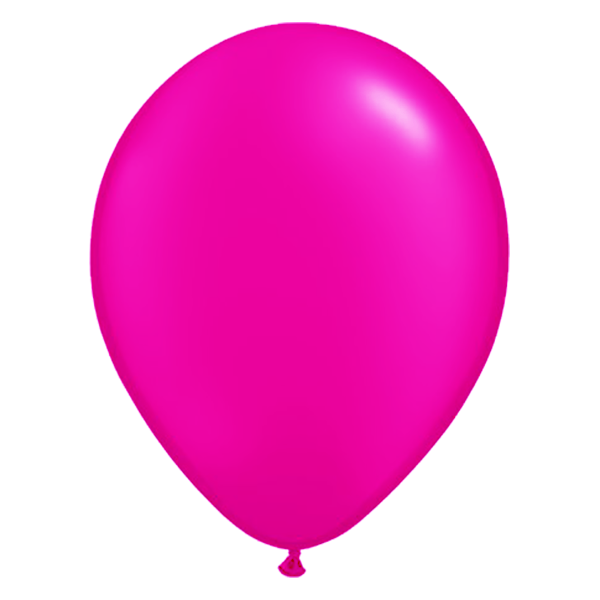
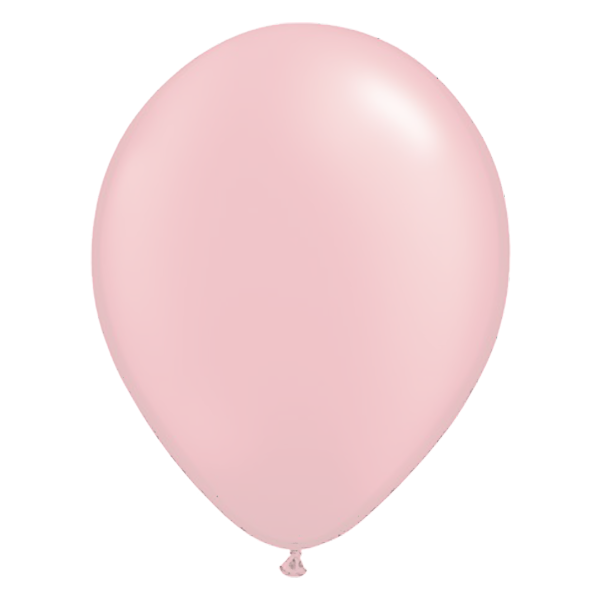
added uniqes bloons and added 2 more colors

diff --git a/ApBC/frontend/src/components/babyplay.vue b/ApBC/frontend/src/components/babyplay.vue
@@ -81,12 +81,17 @@
 
 
 
-    
-        for (let i = 1; i <= 9; i++) {
-            this.numberGenerator(7);
-        }
+            console.log("-----Random-----");
+            while (this.numberArray.length < 9) {
+                this.numberGenerator(); 
+            }
+            console.log("Array size is: " + this.numberArray.length);
+            console.log("random numbers is " + this.numberArray);
+            console.log("----End-----");
+            
 
-        console.log("random number is " + this.numberArray);
+
+        
 
         },
         mounted() {
@@ -166,20 +171,15 @@
 
             },
 
-            numberGenerator: function (antal) {
-
+            numberGenerator: function () {
                 
-                
-                do {
-                let value = Math.floor(Math.random() * (antal) + 1);
-                    
-                    for (let i = 0; i < this.numberArray.length; i++) {
-                        while (this.numberArray[i] != value) {
-                            this.numberArray += value;
-                            console.log("added to array nr: " + value);
-                        }
+                var value = Math.floor(Math.random() * (9) + 1);
+                    if (this.numberArray.includes(value)) {
+                        console.log("duplicate");
+                    }else{
+                        this.numberArray += value
                     }
-                } while (this.numberArray.length != 9);
+
             },
 
             openNav: function () {
